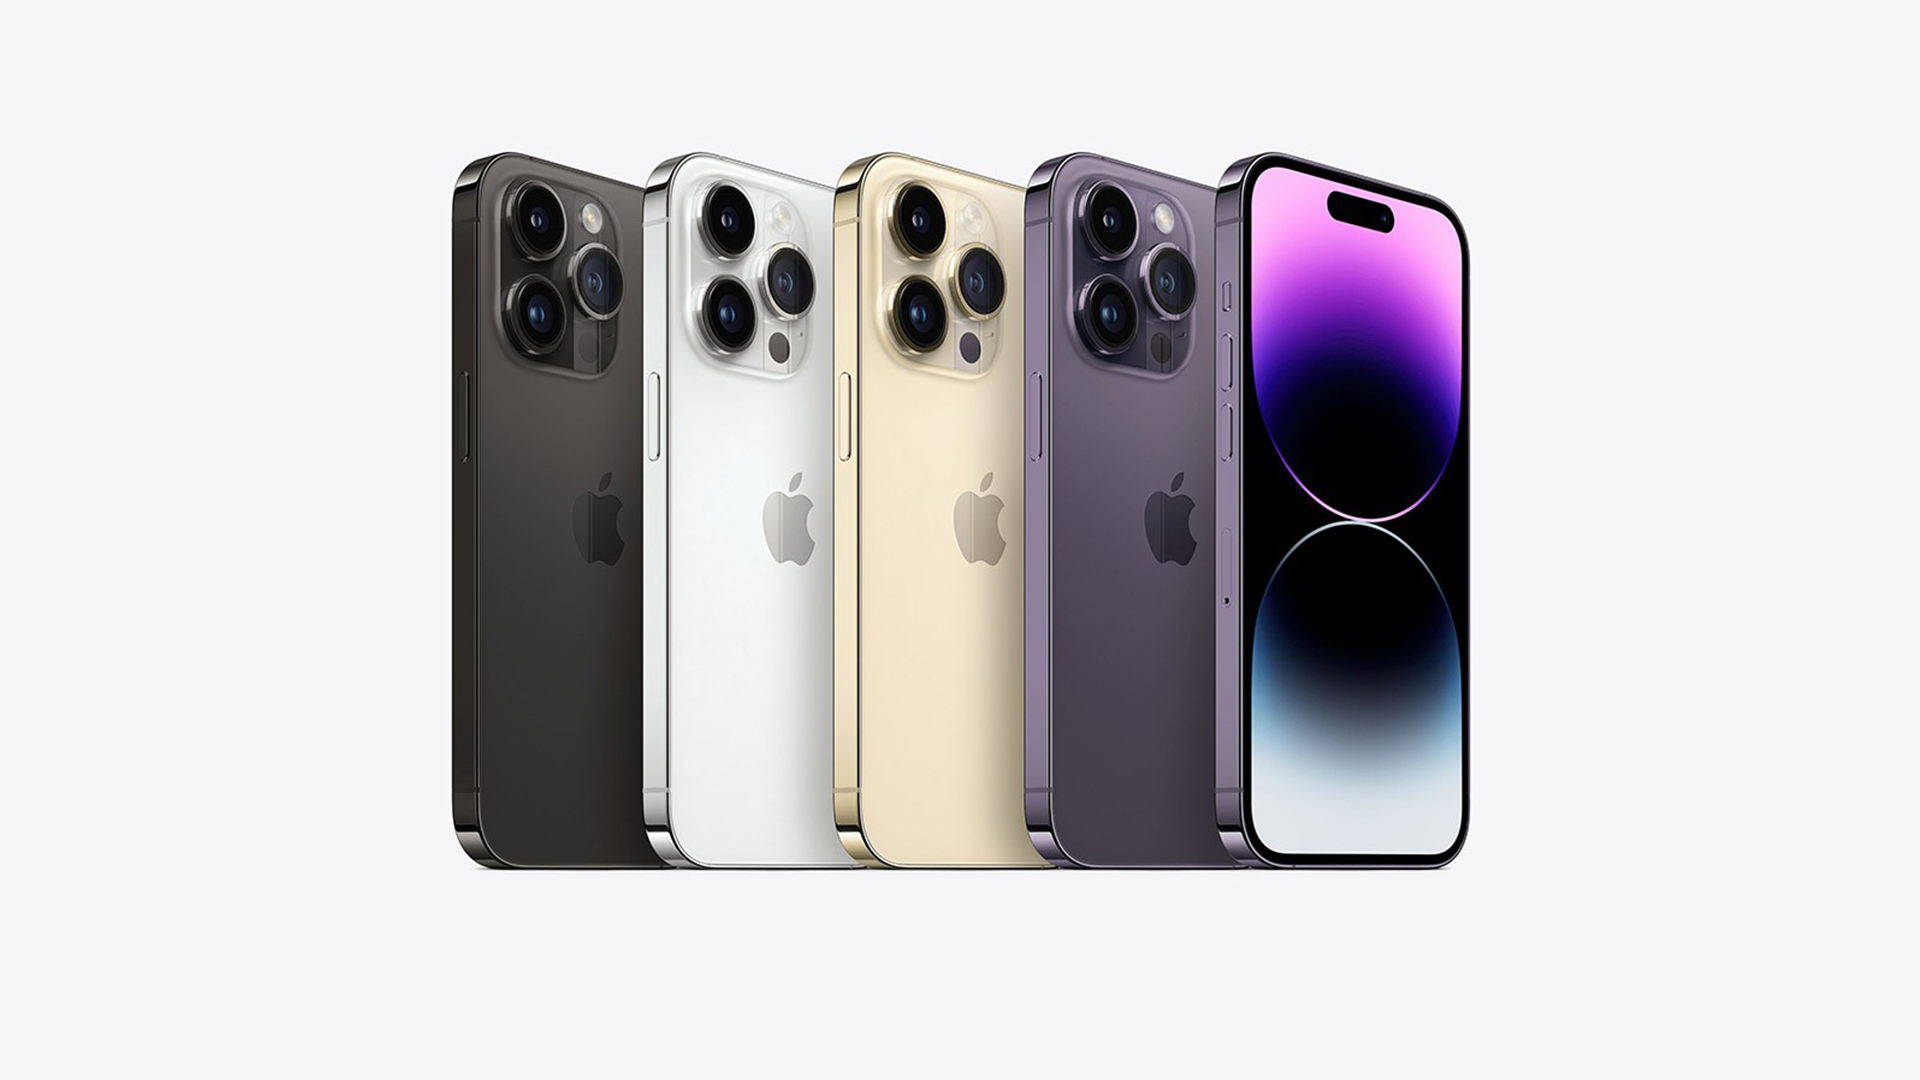
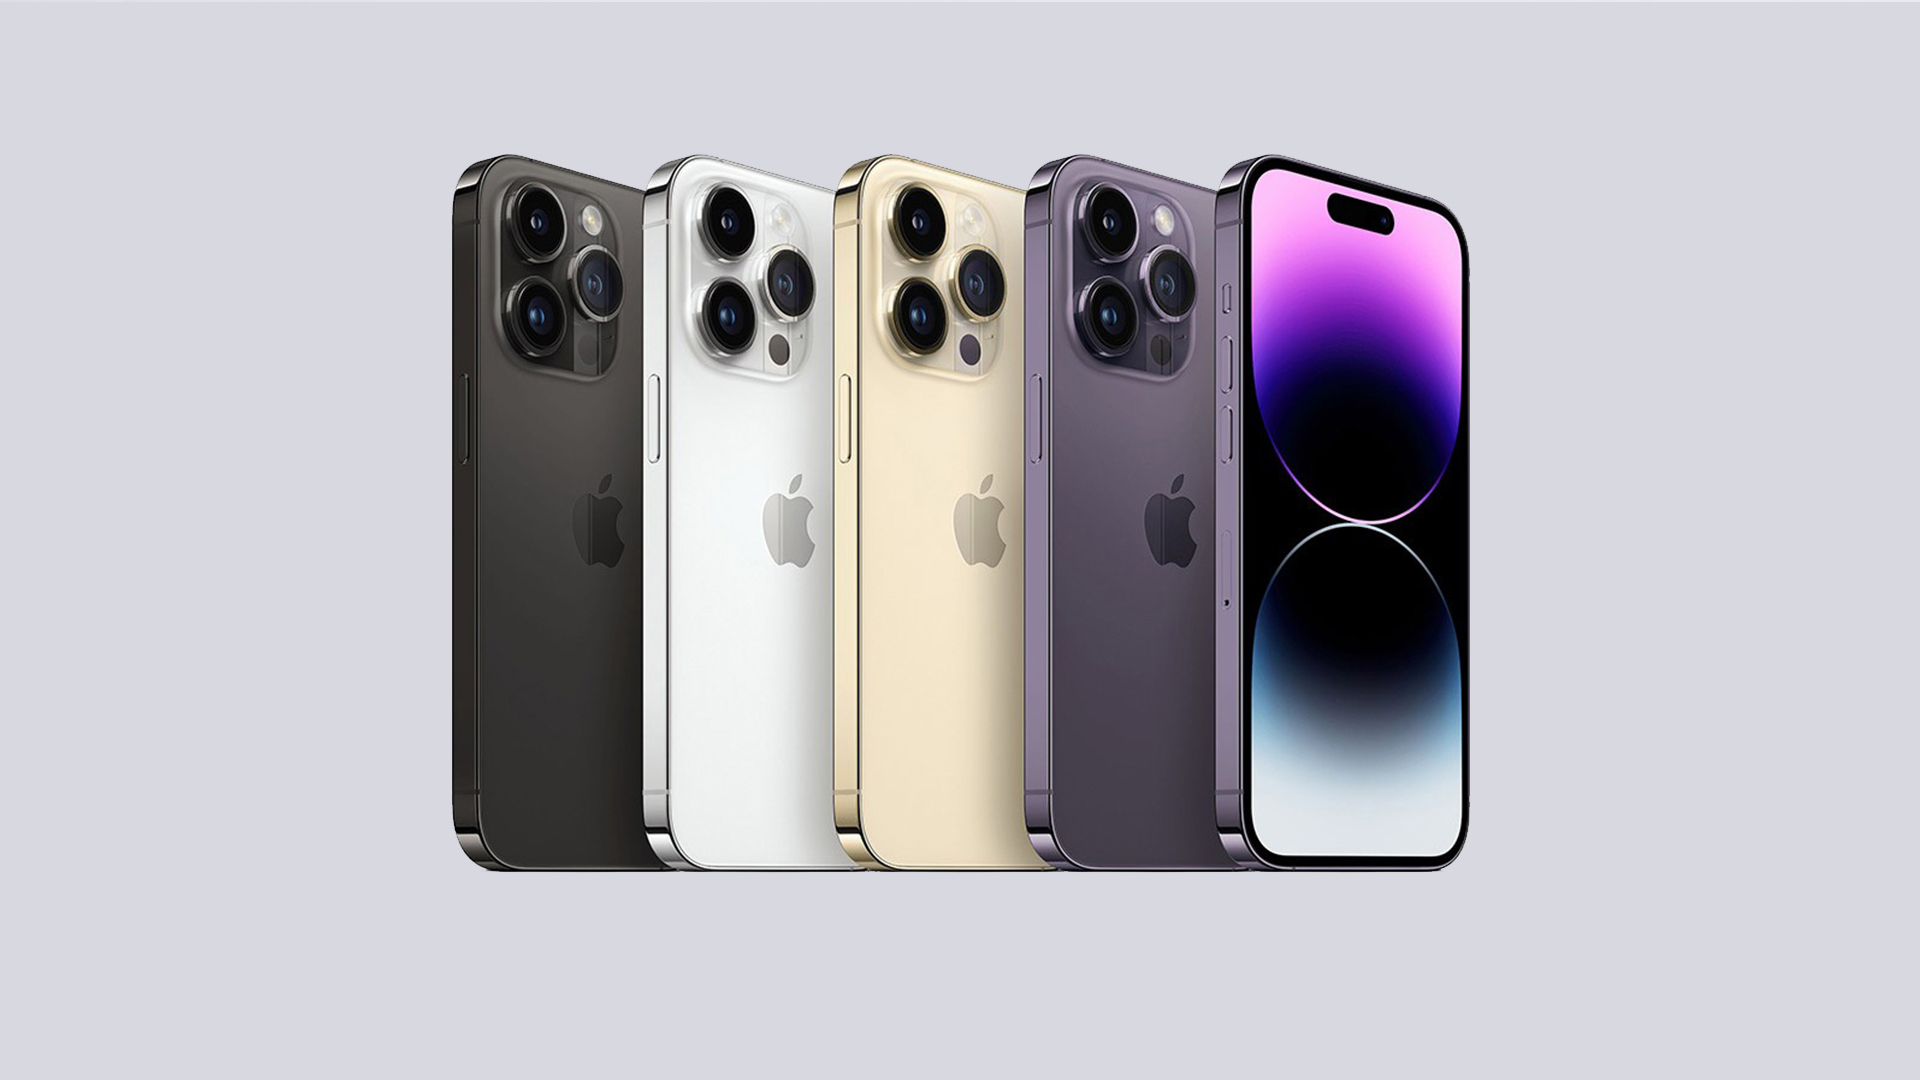
img

diff --git a/marketplace/css/style.css b/marketplace/css/style.css
@@ -128,7 +128,7 @@
 	position: relative;
 	height: 100%;
 	width: 100%;
-	background: rgb(255, 255, 255);
+	background: rgb(216, 216, 224);
 }
 #carouselExampleIndicators .carousel-inner:before{
 	position: absolute;
